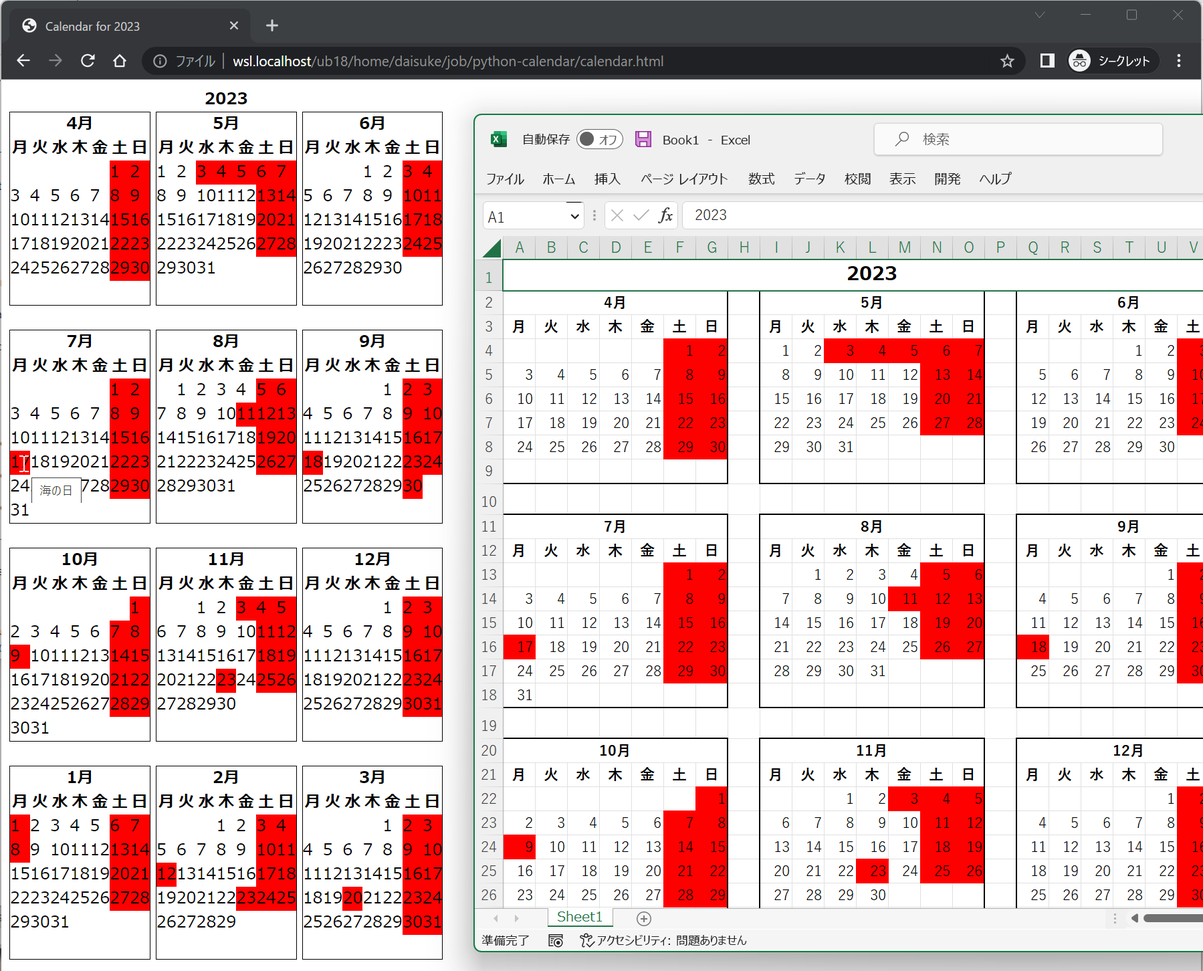
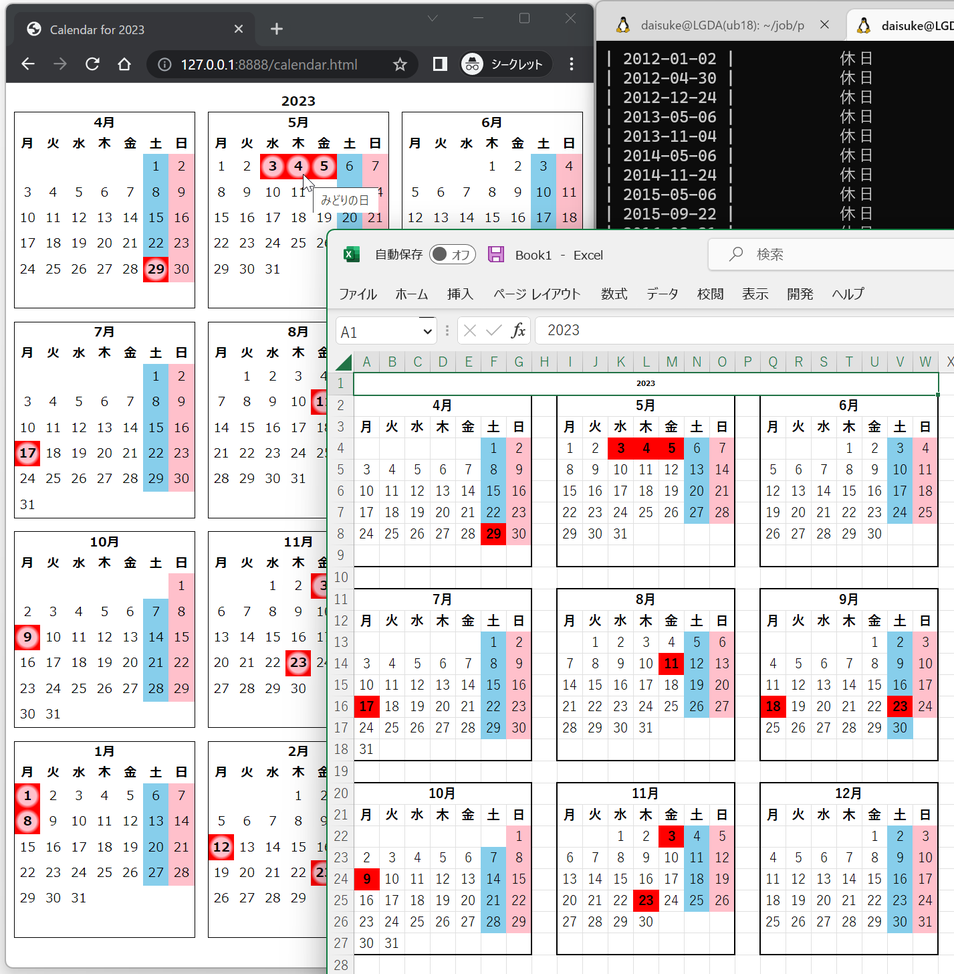
update

diff --git a/calendar.2023.sample.html b/calendar.2023.sample.html
@@ -3,32 +3,40 @@
 <html>
 <head>
 <meta http-equiv="Content-Type" content="text/html; charset=utf-8" />
-<link rel="stylesheet" type="text/css" href="./calendar.css" />
+<link rel="stylesheet" type="text/css" href="calendar-simple.css" />
 <title>Calendar for 2023</title>
 </head>
 <body>
-<table border="0" cellpadding="0" cellspacing="0" class="year">
-<tr><th colspan="5" class="year">2023</th></tr><tr class="months-row"><td class="month"><table border="0" cellpadding="0" cellspacing="0" class="month">
+<table class="year">
+
+<tr><th colspan="5" class="year">2023</th></tr>
+<tr class="months-row">
+
+<td class="month"><table class="month">
 <tr><th colspan="7" class="month">April</th></tr>
 <tr><th class="wd mon">Mon</th><th class="wd tue">Tue</th><th class="wd wed">Wed</th><th class="wd thu">Thu</th><th class="wd fri">Fri</th><th class="wd sat">Sat</th><th class="wd sun">Sun</th></tr>
 <tr class="days"><td class="day noday">&nbsp;</td><td class="day noday">&nbsp;</td><td class="day noday">&nbsp;</td><td class="day noday">&nbsp;</td><td class="day noday">&nbsp;</td><td class="day sat">1</td><td class="day sun">2</td></tr>
 <tr class="days"><td class="day mon">3</td><td class="day tue">4</td><td class="day wed">5</td><td class="day thu">6</td><td class="day fri">7</td><td class="day sat">8</td><td class="day sun">9</td></tr>
 <tr class="days"><td class="day mon">10</td><td class="day tue">11</td><td class="day wed">12</td><td class="day thu">13</td><td class="day fri">14</td><td class="day sat">15</td><td class="day sun">16</td></tr>
 <tr class="days"><td class="day mon">17</td><td class="day tue">18</td><td class="day wed">19</td><td class="day thu">20</td><td class="day fri">21</td><td class="day sat">22</td><td class="day sun">23</td></tr>
-<tr class="days"><td class="day mon">24</td><td class="day tue">25</td><td class="day wed">26</td><td class="day thu">27</td><td class="day fri">28</td><td class="day sat holiday" title="昭和の日">29</td><td class="day sun">30</td></tr>
+<tr class="days"><td class="day mon">24</td><td class="day tue">25</td><td class="day wed">26</td><td class="day thu">27</td><td class="day fri">28</td><td class="day sat holiday" title="昭和の日"><div>29</div></td><td class="day sun">30</td></tr>
 <tr class="days"><td class="day noday">&nbsp;</td><td class="day noday">&nbsp;</td><td class="day noday">&nbsp;</td><td class="day noday">&nbsp;</td><td class="day noday">&nbsp;</td><td class="day noday">&nbsp;</td><td class="day noday">&nbsp;</td></tr>
 </table>
-</td><td><table border="0" cellpadding="0" cellspacing="0" class="pad"><tr><td>&nbsp;</td></tr><tr><td>&nbsp;</td></tr><tr><td>&nbsp;</td></tr><tr><td>&nbsp;</td></tr><tr><td>&nbsp;</td></tr><tr><td>&nbsp;</td></tr><tr><td>&nbsp;</td></tr><tr><td>&nbsp;</td></tr></table></td><td class="month"><table border="0" cellpadding="0" cellspacing="0" class="month">
+</td><td class="hpad"><table><tr><td class="vfill"></td></tr><tr><td class="vfill"></td></tr><tr><td class="vfill"></td></tr><tr><td class="vfill"></td></tr><tr><td class="vfill"></td></tr><tr><td class="vfill"></td></tr><tr><td class="vfill"></td></tr><tr><td class="vfill"></td></tr></table></td>
+
+<td class="month"><table class="month">
 <tr><th colspan="7" class="month">May</th></tr>
 <tr><th class="wd mon">Mon</th><th class="wd tue">Tue</th><th class="wd wed">Wed</th><th class="wd thu">Thu</th><th class="wd fri">Fri</th><th class="wd sat">Sat</th><th class="wd sun">Sun</th></tr>
-<tr class="days"><td class="day mon">1</td><td class="day tue">2</td><td class="day wed holiday" title="憲法記念日">3</td><td class="day thu holiday" title="みどりの日">4</td><td class="day fri holiday" title="こどもの日">5</td><td class="day sat">6</td><td class="day sun">7</td></tr>
+<tr class="days"><td class="day mon">1</td><td class="day tue">2</td><td class="day wed holiday" title="憲法記念日"><div>3</div></td><td class="day thu holiday" title="みどりの日"><div>4</div></td><td class="day fri holiday" title="こどもの日"><div>5</div></td><td class="day sat">6</td><td class="day sun">7</td></tr>
 <tr class="days"><td class="day mon">8</td><td class="day tue">9</td><td class="day wed">10</td><td class="day thu">11</td><td class="day fri">12</td><td class="day sat">13</td><td class="day sun">14</td></tr>
 <tr class="days"><td class="day mon">15</td><td class="day tue">16</td><td class="day wed">17</td><td class="day thu">18</td><td class="day fri">19</td><td class="day sat">20</td><td class="day sun">21</td></tr>
 <tr class="days"><td class="day mon">22</td><td class="day tue">23</td><td class="day wed">24</td><td class="day thu">25</td><td class="day fri">26</td><td class="day sat">27</td><td class="day sun">28</td></tr>
 <tr class="days"><td class="day mon">29</td><td class="day tue">30</td><td class="day wed">31</td><td class="day noday">&nbsp;</td><td class="day noday">&nbsp;</td><td class="day noday">&nbsp;</td><td class="day noday">&nbsp;</td></tr>
 <tr class="days"><td class="day noday">&nbsp;</td><td class="day noday">&nbsp;</td><td class="day noday">&nbsp;</td><td class="day noday">&nbsp;</td><td class="day noday">&nbsp;</td><td class="day noday">&nbsp;</td><td class="day noday">&nbsp;</td></tr>
 </table>
-</td><td><table border="0" cellpadding="0" cellspacing="0" class="pad"><tr><td>&nbsp;</td></tr><tr><td>&nbsp;</td></tr><tr><td>&nbsp;</td></tr><tr><td>&nbsp;</td></tr><tr><td>&nbsp;</td></tr><tr><td>&nbsp;</td></tr><tr><td>&nbsp;</td></tr><tr><td>&nbsp;</td></tr></table></td><td class="month"><table border="0" cellpadding="0" cellspacing="0" class="month">
+</td><td class="hpad"><table><tr><td class="vfill"></td></tr><tr><td class="vfill"></td></tr><tr><td class="vfill"></td></tr><tr><td class="vfill"></td></tr><tr><td class="vfill"></td></tr><tr><td class="vfill"></td></tr><tr><td class="vfill"></td></tr><tr><td class="vfill"></td></tr></table></td>
+
+<td class="month"><table class="month">
 <tr><th colspan="7" class="month">June</th></tr>
 <tr><th class="wd mon">Mon</th><th class="wd tue">Tue</th><th class="wd wed">Wed</th><th class="wd thu">Thu</th><th class="wd fri">Fri</th><th class="wd sat">Sat</th><th class="wd sun">Sun</th></tr>
 <tr class="days"><td class="day noday">&nbsp;</td><td class="day noday">&nbsp;</td><td class="day noday">&nbsp;</td><td class="day thu">1</td><td class="day fri">2</td><td class="day sat">3</td><td class="day sun">4</td></tr>
@@ -39,64 +47,74 @@
 <tr class="days"><td class="day noday">&nbsp;</td><td class="day noday">&nbsp;</td><td class="day noday">&nbsp;</td><td class="day noday">&nbsp;</td><td class="day noday">&nbsp;</td><td class="day noday">&nbsp;</td><td class="day noday">&nbsp;</td></tr>
 </table>
 </td></tr>
+<tr class="vpad"><td><table><tr><td class="hfill"></td><td class="hfill"></td><td class="hfill"></td><td class="hfill"></td><td class="hfill"></td><td class="hfill"></td><td class="hfill"></td></tr></table></td><td class="vpad"><table><tr><td class="vfill hfill"></td></tr></table></td><td><table><tr><td class="hfill"></td><td class="hfill"></td><td class="hfill"></td><td class="hfill"></td><td class="hfill"></td><td class="hfill"></td><td class="hfill"></td></tr></table></td><td class="vpad"><table><tr><td class="vfill hfill"></td></tr></table></td><td><table><tr><td class="hfill"></td><td class="hfill"></td><td class="hfill"></td><td class="hfill"></td><td class="hfill"></td><td class="hfill"></td><td class="hfill"></td></tr></table></td></tr>
 
-<tr><td><table border="0" cellpadding="0" cellspacing="0" class="pad"><td>&nbsp;</td><td>&nbsp;</td><td>&nbsp;</td><td>&nbsp;</td><td>&nbsp;</td><td>&nbsp;</td><td>&nbsp;</td></table></td><td>&nbsp;</td><td><table border="0" cellpadding="0" cellspacing="0" class="pad"><td>&nbsp;</td><td>&nbsp;</td><td>&nbsp;</td><td>&nbsp;</td><td>&nbsp;</td><td>&nbsp;</td><td>&nbsp;</td></table></td><td>&nbsp;</td><td><table border="0" cellpadding="0" cellspacing="0" class="pad"><td>&nbsp;</td><td>&nbsp;</td><td>&nbsp;</td><td>&nbsp;</td><td>&nbsp;</td><td>&nbsp;</td><td>&nbsp;</td></table></td></tr>
+<tr class="months-row">
 
-<tr class="months-row"><td class="month"><table border="0" cellpadding="0" cellspacing="0" class="month">
+<td class="month"><table class="month">
 <tr><th colspan="7" class="month">July</th></tr>
 <tr><th class="wd mon">Mon</th><th class="wd tue">Tue</th><th class="wd wed">Wed</th><th class="wd thu">Thu</th><th class="wd fri">Fri</th><th class="wd sat">Sat</th><th class="wd sun">Sun</th></tr>
 <tr class="days"><td class="day noday">&nbsp;</td><td class="day noday">&nbsp;</td><td class="day noday">&nbsp;</td><td class="day noday">&nbsp;</td><td class="day noday">&nbsp;</td><td class="day sat">1</td><td class="day sun">2</td></tr>
 <tr class="days"><td class="day mon">3</td><td class="day tue">4</td><td class="day wed">5</td><td class="day thu">6</td><td class="day fri">7</td><td class="day sat">8</td><td class="day sun">9</td></tr>
 <tr class="days"><td class="day mon">10</td><td class="day tue">11</td><td class="day wed">12</td><td class="day thu">13</td><td class="day fri">14</td><td class="day sat">15</td><td class="day sun">16</td></tr>
-<tr class="days"><td class="day mon holiday" title="海の日">17</td><td class="day tue">18</td><td class="day wed">19</td><td class="day thu">20</td><td class="day fri">21</td><td class="day sat">22</td><td class="day sun">23</td></tr>
+<tr class="days"><td class="day mon holiday" title="海の日"><div>17</div></td><td class="day tue">18</td><td class="day wed">19</td><td class="day thu">20</td><td class="day fri">21</td><td class="day sat">22</td><td class="day sun">23</td></tr>
 <tr class="days"><td class="day mon">24</td><td class="day tue">25</td><td class="day wed">26</td><td class="day thu">27</td><td class="day fri">28</td><td class="day sat">29</td><td class="day sun">30</td></tr>
 <tr class="days"><td class="day mon">31</td><td class="day noday">&nbsp;</td><td class="day noday">&nbsp;</td><td class="day noday">&nbsp;</td><td class="day noday">&nbsp;</td><td class="day noday">&nbsp;</td><td class="day noday">&nbsp;</td></tr>
 </table>
-</td><td><table border="0" cellpadding="0" cellspacing="0" class="pad"><tr><td>&nbsp;</td></tr><tr><td>&nbsp;</td></tr><tr><td>&nbsp;</td></tr><tr><td>&nbsp;</td></tr><tr><td>&nbsp;</td></tr><tr><td>&nbsp;</td></tr><tr><td>&nbsp;</td></tr><tr><td>&nbsp;</td></tr></table></td><td class="month"><table border="0" cellpadding="0" cellspacing="0" class="month">
+</td><td class="hpad"><table><tr><td class="vfill"></td></tr><tr><td class="vfill"></td></tr><tr><td class="vfill"></td></tr><tr><td class="vfill"></td></tr><tr><td class="vfill"></td></tr><tr><td class="vfill"></td></tr><tr><td class="vfill"></td></tr><tr><td class="vfill"></td></tr></table></td>
+
+<td class="month"><table class="month">
 <tr><th colspan="7" class="month">August</th></tr>
 <tr><th class="wd mon">Mon</th><th class="wd tue">Tue</th><th class="wd wed">Wed</th><th class="wd thu">Thu</th><th class="wd fri">Fri</th><th class="wd sat">Sat</th><th class="wd sun">Sun</th></tr>
 <tr class="days"><td class="day noday">&nbsp;</td><td class="day tue">1</td><td class="day wed">2</td><td class="day thu">3</td><td class="day fri">4</td><td class="day sat">5</td><td class="day sun">6</td></tr>
-<tr class="days"><td class="day mon">7</td><td class="day tue">8</td><td class="day wed">9</td><td class="day thu">10</td><td class="day fri holiday" title="山の日">11</td><td class="day sat">12</td><td class="day sun">13</td></tr>
+<tr class="days"><td class="day mon">7</td><td class="day tue">8</td><td class="day wed">9</td><td class="day thu">10</td><td class="day fri holiday" title="山の日"><div>11</div></td><td class="day sat">12</td><td class="day sun">13</td></tr>
 <tr class="days"><td class="day mon">14</td><td class="day tue">15</td><td class="day wed">16</td><td class="day thu">17</td><td class="day fri">18</td><td class="day sat">19</td><td class="day sun">20</td></tr>
 <tr class="days"><td class="day mon">21</td><td class="day tue">22</td><td class="day wed">23</td><td class="day thu">24</td><td class="day fri">25</td><td class="day sat">26</td><td class="day sun">27</td></tr>
 <tr class="days"><td class="day mon">28</td><td class="day tue">29</td><td class="day wed">30</td><td class="day thu">31</td><td class="day noday">&nbsp;</td><td class="day noday">&nbsp;</td><td class="day noday">&nbsp;</td></tr>
 <tr class="days"><td class="day noday">&nbsp;</td><td class="day noday">&nbsp;</td><td class="day noday">&nbsp;</td><td class="day noday">&nbsp;</td><td class="day noday">&nbsp;</td><td class="day noday">&nbsp;</td><td class="day noday">&nbsp;</td></tr>
 </table>
-</td><td><table border="0" cellpadding="0" cellspacing="0" class="pad"><tr><td>&nbsp;</td></tr><tr><td>&nbsp;</td></tr><tr><td>&nbsp;</td></tr><tr><td>&nbsp;</td></tr><tr><td>&nbsp;</td></tr><tr><td>&nbsp;</td></tr><tr><td>&nbsp;</td></tr><tr><td>&nbsp;</td></tr></table></td><td class="month"><table border="0" cellpadding="0" cellspacing="0" class="month">
+</td><td class="hpad"><table><tr><td class="vfill"></td></tr><tr><td class="vfill"></td></tr><tr><td class="vfill"></td></tr><tr><td class="vfill"></td></tr><tr><td class="vfill"></td></tr><tr><td class="vfill"></td></tr><tr><td class="vfill"></td></tr><tr><td class="vfill"></td></tr></table></td>
+
+<td class="month"><table class="month">
 <tr><th colspan="7" class="month">September</th></tr>
 <tr><th class="wd mon">Mon</th><th class="wd tue">Tue</th><th class="wd wed">Wed</th><th class="wd thu">Thu</th><th class="wd fri">Fri</th><th class="wd sat">Sat</th><th class="wd sun">Sun</th></tr>
 <tr class="days"><td class="day noday">&nbsp;</td><td class="day noday">&nbsp;</td><td class="day noday">&nbsp;</td><td class="day noday">&nbsp;</td><td class="day fri">1</td><td class="day sat">2</td><td class="day sun">3</td></tr>
 <tr class="days"><td class="day mon">4</td><td class="day tue">5</td><td class="day wed">6</td><td class="day thu">7</td><td class="day fri">8</td><td class="day sat">9</td><td class="day sun">10</td></tr>
 <tr class="days"><td class="day mon">11</td><td class="day tue">12</td><td class="day wed">13</td><td class="day thu">14</td><td class="day fri">15</td><td class="day sat">16</td><td class="day sun">17</td></tr>
-<tr class="days"><td class="day mon holiday" title="敬老の日">18</td><td class="day tue">19</td><td class="day wed">20</td><td class="day thu">21</td><td class="day fri">22</td><td class="day sat holiday" title="秋分の日">23</td><td class="day sun">24</td></tr>
+<tr class="days"><td class="day mon holiday" title="敬老の日"><div>18</div></td><td class="day tue">19</td><td class="day wed">20</td><td class="day thu">21</td><td class="day fri">22</td><td class="day sat holiday" title="秋分の日"><div>23</div></td><td class="day sun">24</td></tr>
 <tr class="days"><td class="day mon">25</td><td class="day tue">26</td><td class="day wed">27</td><td class="day thu">28</td><td class="day fri">29</td><td class="day sat">30</td><td class="day noday">&nbsp;</td></tr>
 <tr class="days"><td class="day noday">&nbsp;</td><td class="day noday">&nbsp;</td><td class="day noday">&nbsp;</td><td class="day noday">&nbsp;</td><td class="day noday">&nbsp;</td><td class="day noday">&nbsp;</td><td class="day noday">&nbsp;</td></tr>
 </table>
 </td></tr>
+<tr class="vpad"><td><table><tr><td class="hfill"></td><td class="hfill"></td><td class="hfill"></td><td class="hfill"></td><td class="hfill"></td><td class="hfill"></td><td class="hfill"></td></tr></table></td><td class="vpad"><table><tr><td class="vfill hfill"></td></tr></table></td><td><table><tr><td class="hfill"></td><td class="hfill"></td><td class="hfill"></td><td class="hfill"></td><td class="hfill"></td><td class="hfill"></td><td class="hfill"></td></tr></table></td><td class="vpad"><table><tr><td class="vfill hfill"></td></tr></table></td><td><table><tr><td class="hfill"></td><td class="hfill"></td><td class="hfill"></td><td class="hfill"></td><td class="hfill"></td><td class="hfill"></td><td class="hfill"></td></tr></table></td></tr>
 
-<tr><td><table border="0" cellpadding="0" cellspacing="0" class="pad"><td>&nbsp;</td><td>&nbsp;</td><td>&nbsp;</td><td>&nbsp;</td><td>&nbsp;</td><td>&nbsp;</td><td>&nbsp;</td></table></td><td>&nbsp;</td><td><table border="0" cellpadding="0" cellspacing="0" class="pad"><td>&nbsp;</td><td>&nbsp;</td><td>&nbsp;</td><td>&nbsp;</td><td>&nbsp;</td><td>&nbsp;</td><td>&nbsp;</td></table></td><td>&nbsp;</td><td><table border="0" cellpadding="0" cellspacing="0" class="pad"><td>&nbsp;</td><td>&nbsp;</td><td>&nbsp;</td><td>&nbsp;</td><td>&nbsp;</td><td>&nbsp;</td><td>&nbsp;</td></table></td></tr>
+<tr class="months-row">
 
-<tr class="months-row"><td class="month"><table border="0" cellpadding="0" cellspacing="0" class="month">
+<td class="month"><table class="month">
 <tr><th colspan="7" class="month">October</th></tr>
 <tr><th class="wd mon">Mon</th><th class="wd tue">Tue</th><th class="wd wed">Wed</th><th class="wd thu">Thu</th><th class="wd fri">Fri</th><th class="wd sat">Sat</th><th class="wd sun">Sun</th></tr>
 <tr class="days"><td class="day noday">&nbsp;</td><td class="day noday">&nbsp;</td><td class="day noday">&nbsp;</td><td class="day noday">&nbsp;</td><td class="day noday">&nbsp;</td><td class="day noday">&nbsp;</td><td class="day sun">1</td></tr>
 <tr class="days"><td class="day mon">2</td><td class="day tue">3</td><td class="day wed">4</td><td class="day thu">5</td><td class="day fri">6</td><td class="day sat">7</td><td class="day sun">8</td></tr>
-<tr class="days"><td class="day mon holiday" title="スポーツの日">9</td><td class="day tue">10</td><td class="day wed">11</td><td class="day thu">12</td><td class="day fri">13</td><td class="day sat">14</td><td class="day sun">15</td></tr>
+<tr class="days"><td class="day mon holiday" title="スポーツの日"><div>9</div></td><td class="day tue">10</td><td class="day wed">11</td><td class="day thu">12</td><td class="day fri">13</td><td class="day sat">14</td><td class="day sun">15</td></tr>
 <tr class="days"><td class="day mon">16</td><td class="day tue">17</td><td class="day wed">18</td><td class="day thu">19</td><td class="day fri">20</td><td class="day sat">21</td><td class="day sun">22</td></tr>
 <tr class="days"><td class="day mon">23</td><td class="day tue">24</td><td class="day wed">25</td><td class="day thu">26</td><td class="day fri">27</td><td class="day sat">28</td><td class="day sun">29</td></tr>
 <tr class="days"><td class="day mon">30</td><td class="day tue">31</td><td class="day noday">&nbsp;</td><td class="day noday">&nbsp;</td><td class="day noday">&nbsp;</td><td class="day noday">&nbsp;</td><td class="day noday">&nbsp;</td></tr>
 </table>
-</td><td><table border="0" cellpadding="0" cellspacing="0" class="pad"><tr><td>&nbsp;</td></tr><tr><td>&nbsp;</td></tr><tr><td>&nbsp;</td></tr><tr><td>&nbsp;</td></tr><tr><td>&nbsp;</td></tr><tr><td>&nbsp;</td></tr><tr><td>&nbsp;</td></tr><tr><td>&nbsp;</td></tr></table></td><td class="month"><table border="0" cellpadding="0" cellspacing="0" class="month">
+</td><td class="hpad"><table><tr><td class="vfill"></td></tr><tr><td class="vfill"></td></tr><tr><td class="vfill"></td></tr><tr><td class="vfill"></td></tr><tr><td class="vfill"></td></tr><tr><td class="vfill"></td></tr><tr><td class="vfill"></td></tr><tr><td class="vfill"></td></tr></table></td>
+
+<td class="month"><table class="month">
 <tr><th colspan="7" class="month">November</th></tr>
 <tr><th class="wd mon">Mon</th><th class="wd tue">Tue</th><th class="wd wed">Wed</th><th class="wd thu">Thu</th><th class="wd fri">Fri</th><th class="wd sat">Sat</th><th class="wd sun">Sun</th></tr>
-<tr class="days"><td class="day noday">&nbsp;</td><td class="day noday">&nbsp;</td><td class="day wed">1</td><td class="day thu">2</td><td class="day fri holiday" title="文化の日">3</td><td class="day sat">4</td><td class="day sun">5</td></tr>
+<tr class="days"><td class="day noday">&nbsp;</td><td class="day noday">&nbsp;</td><td class="day wed">1</td><td class="day thu">2</td><td class="day fri holiday" title="文化の日"><div>3</div></td><td class="day sat">4</td><td class="day sun">5</td></tr>
 <tr class="days"><td class="day mon">6</td><td class="day tue">7</td><td class="day wed">8</td><td class="day thu">9</td><td class="day fri">10</td><td class="day sat">11</td><td class="day sun">12</td></tr>
 <tr class="days"><td class="day mon">13</td><td class="day tue">14</td><td class="day wed">15</td><td class="day thu">16</td><td class="day fri">17</td><td class="day sat">18</td><td class="day sun">19</td></tr>
-<tr class="days"><td class="day mon">20</td><td class="day tue">21</td><td class="day wed">22</td><td class="day thu holiday" title="勤労感謝の日">23</td><td class="day fri">24</td><td class="day sat">25</td><td class="day sun">26</td></tr>
+<tr class="days"><td class="day mon">20</td><td class="day tue">21</td><td class="day wed">22</td><td class="day thu holiday" title="勤労感謝の日"><div>23</div></td><td class="day fri">24</td><td class="day sat">25</td><td class="day sun">26</td></tr>
 <tr class="days"><td class="day mon">27</td><td class="day tue">28</td><td class="day wed">29</td><td class="day thu">30</td><td class="day noday">&nbsp;</td><td class="day noday">&nbsp;</td><td class="day noday">&nbsp;</td></tr>
 <tr class="days"><td class="day noday">&nbsp;</td><td class="day noday">&nbsp;</td><td class="day noday">&nbsp;</td><td class="day noday">&nbsp;</td><td class="day noday">&nbsp;</td><td class="day noday">&nbsp;</td><td class="day noday">&nbsp;</td></tr>
 </table>
-</td><td><table border="0" cellpadding="0" cellspacing="0" class="pad"><tr><td>&nbsp;</td></tr><tr><td>&nbsp;</td></tr><tr><td>&nbsp;</td></tr><tr><td>&nbsp;</td></tr><tr><td>&nbsp;</td></tr><tr><td>&nbsp;</td></tr><tr><td>&nbsp;</td></tr><tr><td>&nbsp;</td></tr></table></td><td class="month"><table border="0" cellpadding="0" cellspacing="0" class="month">
+</td><td class="hpad"><table><tr><td class="vfill"></td></tr><tr><td class="vfill"></td></tr><tr><td class="vfill"></td></tr><tr><td class="vfill"></td></tr><tr><td class="vfill"></td></tr><tr><td class="vfill"></td></tr><tr><td class="vfill"></td></tr><tr><td class="vfill"></td></tr></table></td>
+
+<td class="month"><table class="month">
 <tr><th colspan="7" class="month">December</th></tr>
 <tr><th class="wd mon">Mon</th><th class="wd tue">Tue</th><th class="wd wed">Wed</th><th class="wd thu">Thu</th><th class="wd fri">Fri</th><th class="wd sat">Sat</th><th class="wd sun">Sun</th></tr>
 <tr class="days"><td class="day noday">&nbsp;</td><td class="day noday">&nbsp;</td><td class="day noday">&nbsp;</td><td class="day noday">&nbsp;</td><td class="day fri">1</td><td class="day sat">2</td><td class="day sun">3</td></tr>
@@ -107,36 +125,41 @@
 <tr class="days"><td class="day noday">&nbsp;</td><td class="day noday">&nbsp;</td><td class="day noday">&nbsp;</td><td class="day noday">&nbsp;</td><td class="day noday">&nbsp;</td><td class="day noday">&nbsp;</td><td class="day noday">&nbsp;</td></tr>
 </table>
 </td></tr>
+<tr class="vpad"><td><table><tr><td class="hfill"></td><td class="hfill"></td><td class="hfill"></td><td class="hfill"></td><td class="hfill"></td><td class="hfill"></td><td class="hfill"></td></tr></table></td><td class="vpad"><table><tr><td class="vfill hfill"></td></tr></table></td><td><table><tr><td class="hfill"></td><td class="hfill"></td><td class="hfill"></td><td class="hfill"></td><td class="hfill"></td><td class="hfill"></td><td class="hfill"></td></tr></table></td><td class="vpad"><table><tr><td class="vfill hfill"></td></tr></table></td><td><table><tr><td class="hfill"></td><td class="hfill"></td><td class="hfill"></td><td class="hfill"></td><td class="hfill"></td><td class="hfill"></td><td class="hfill"></td></tr></table></td></tr>
 
-<tr><td><table border="0" cellpadding="0" cellspacing="0" class="pad"><td>&nbsp;</td><td>&nbsp;</td><td>&nbsp;</td><td>&nbsp;</td><td>&nbsp;</td><td>&nbsp;</td><td>&nbsp;</td></table></td><td>&nbsp;</td><td><table border="0" cellpadding="0" cellspacing="0" class="pad"><td>&nbsp;</td><td>&nbsp;</td><td>&nbsp;</td><td>&nbsp;</td><td>&nbsp;</td><td>&nbsp;</td><td>&nbsp;</td></table></td><td>&nbsp;</td><td><table border="0" cellpadding="0" cellspacing="0" class="pad"><td>&nbsp;</td><td>&nbsp;</td><td>&nbsp;</td><td>&nbsp;</td><td>&nbsp;</td><td>&nbsp;</td><td>&nbsp;</td></table></td></tr>
+<tr class="months-row">
 
-<tr class="months-row"><td class="month"><table border="0" cellpadding="0" cellspacing="0" class="month">
+<td class="month"><table class="month">
 <tr><th colspan="7" class="month">January</th></tr>
 <tr><th class="wd mon">Mon</th><th class="wd tue">Tue</th><th class="wd wed">Wed</th><th class="wd thu">Thu</th><th class="wd fri">Fri</th><th class="wd sat">Sat</th><th class="wd sun">Sun</th></tr>
-<tr class="days"><td class="day mon holiday" title="元日">1</td><td class="day tue">2</td><td class="day wed">3</td><td class="day thu">4</td><td class="day fri">5</td><td class="day sat">6</td><td class="day sun">7</td></tr>
-<tr class="days"><td class="day mon holiday" title="成人の日">8</td><td class="day tue">9</td><td class="day wed">10</td><td class="day thu">11</td><td class="day fri">12</td><td class="day sat">13</td><td class="day sun">14</td></tr>
+<tr class="days"><td class="day mon holiday" title="元日"><div>1</div></td><td class="day tue">2</td><td class="day wed">3</td><td class="day thu">4</td><td class="day fri">5</td><td class="day sat">6</td><td class="day sun">7</td></tr>
+<tr class="days"><td class="day mon holiday" title="成人の日"><div>8</div></td><td class="day tue">9</td><td class="day wed">10</td><td class="day thu">11</td><td class="day fri">12</td><td class="day sat">13</td><td class="day sun">14</td></tr>
 <tr class="days"><td class="day mon">15</td><td class="day tue">16</td><td class="day wed">17</td><td class="day thu">18</td><td class="day fri">19</td><td class="day sat">20</td><td class="day sun">21</td></tr>
 <tr class="days"><td class="day mon">22</td><td class="day tue">23</td><td class="day wed">24</td><td class="day thu">25</td><td class="day fri">26</td><td class="day sat">27</td><td class="day sun">28</td></tr>
 <tr class="days"><td class="day mon">29</td><td class="day tue">30</td><td class="day wed">31</td><td class="day noday">&nbsp;</td><td class="day noday">&nbsp;</td><td class="day noday">&nbsp;</td><td class="day noday">&nbsp;</td></tr>
 <tr class="days"><td class="day noday">&nbsp;</td><td class="day noday">&nbsp;</td><td class="day noday">&nbsp;</td><td class="day noday">&nbsp;</td><td class="day noday">&nbsp;</td><td class="day noday">&nbsp;</td><td class="day noday">&nbsp;</td></tr>
 </table>
-</td><td><table border="0" cellpadding="0" cellspacing="0" class="pad"><tr><td>&nbsp;</td></tr><tr><td>&nbsp;</td></tr><tr><td>&nbsp;</td></tr><tr><td>&nbsp;</td></tr><tr><td>&nbsp;</td></tr><tr><td>&nbsp;</td></tr><tr><td>&nbsp;</td></tr><tr><td>&nbsp;</td></tr></table></td><td class="month"><table border="0" cellpadding="0" cellspacing="0" class="month">
+</td><td class="hpad"><table><tr><td class="vfill"></td></tr><tr><td class="vfill"></td></tr><tr><td class="vfill"></td></tr><tr><td class="vfill"></td></tr><tr><td class="vfill"></td></tr><tr><td class="vfill"></td></tr><tr><td class="vfill"></td></tr><tr><td class="vfill"></td></tr></table></td>
+
+<td class="month"><table class="month">
 <tr><th colspan="7" class="month">February</th></tr>
 <tr><th class="wd mon">Mon</th><th class="wd tue">Tue</th><th class="wd wed">Wed</th><th class="wd thu">Thu</th><th class="wd fri">Fri</th><th class="wd sat">Sat</th><th class="wd sun">Sun</th></tr>
 <tr class="days"><td class="day noday">&nbsp;</td><td class="day noday">&nbsp;</td><td class="day noday">&nbsp;</td><td class="day thu">1</td><td class="day fri">2</td><td class="day sat">3</td><td class="day sun">4</td></tr>
-<tr class="days"><td class="day mon">5</td><td class="day tue">6</td><td class="day wed">7</td><td class="day thu">8</td><td class="day fri">9</td><td class="day sat">10</td><td class="day sun holiday" title="建国記念の日">11</td></tr>
-<tr class="days"><td class="day mon holiday" title="振替休日">12</td><td class="day tue">13</td><td class="day wed">14</td><td class="day thu">15</td><td class="day fri">16</td><td class="day sat">17</td><td class="day sun">18</td></tr>
-<tr class="days"><td class="day mon">19</td><td class="day tue">20</td><td class="day wed">21</td><td class="day thu">22</td><td class="day fri holiday" title="天皇誕生日">23</td><td class="day sat">24</td><td class="day sun">25</td></tr>
+<tr class="days"><td class="day mon">5</td><td class="day tue">6</td><td class="day wed">7</td><td class="day thu">8</td><td class="day fri">9</td><td class="day sat">10</td><td class="day sun holiday" title="建国記念の日"><div>11</div></td></tr>
+<tr class="days"><td class="day mon holiday" title="振替休日"><div>12</div></td><td class="day tue">13</td><td class="day wed">14</td><td class="day thu">15</td><td class="day fri">16</td><td class="day sat">17</td><td class="day sun">18</td></tr>
+<tr class="days"><td class="day mon">19</td><td class="day tue">20</td><td class="day wed">21</td><td class="day thu">22</td><td class="day fri holiday" title="天皇誕生日"><div>23</div></td><td class="day sat">24</td><td class="day sun">25</td></tr>
 <tr class="days"><td class="day mon">26</td><td class="day tue">27</td><td class="day wed">28</td><td class="day thu">29</td><td class="day noday">&nbsp;</td><td class="day noday">&nbsp;</td><td class="day noday">&nbsp;</td></tr>
 <tr class="days"><td class="day noday">&nbsp;</td><td class="day noday">&nbsp;</td><td class="day noday">&nbsp;</td><td class="day noday">&nbsp;</td><td class="day noday">&nbsp;</td><td class="day noday">&nbsp;</td><td class="day noday">&nbsp;</td></tr>
 </table>
-</td><td><table border="0" cellpadding="0" cellspacing="0" class="pad"><tr><td>&nbsp;</td></tr><tr><td>&nbsp;</td></tr><tr><td>&nbsp;</td></tr><tr><td>&nbsp;</td></tr><tr><td>&nbsp;</td></tr><tr><td>&nbsp;</td></tr><tr><td>&nbsp;</td></tr><tr><td>&nbsp;</td></tr></table></td><td class="month"><table border="0" cellpadding="0" cellspacing="0" class="month">
+</td><td class="hpad"><table><tr><td class="vfill"></td></tr><tr><td class="vfill"></td></tr><tr><td class="vfill"></td></tr><tr><td class="vfill"></td></tr><tr><td class="vfill"></td></tr><tr><td class="vfill"></td></tr><tr><td class="vfill"></td></tr><tr><td class="vfill"></td></tr></table></td>
+
+<td class="month"><table class="month">
 <tr><th colspan="7" class="month">March</th></tr>
 <tr><th class="wd mon">Mon</th><th class="wd tue">Tue</th><th class="wd wed">Wed</th><th class="wd thu">Thu</th><th class="wd fri">Fri</th><th class="wd sat">Sat</th><th class="wd sun">Sun</th></tr>
 <tr class="days"><td class="day noday">&nbsp;</td><td class="day noday">&nbsp;</td><td class="day noday">&nbsp;</td><td class="day noday">&nbsp;</td><td class="day fri">1</td><td class="day sat">2</td><td class="day sun">3</td></tr>
 <tr class="days"><td class="day mon">4</td><td class="day tue">5</td><td class="day wed">6</td><td class="day thu">7</td><td class="day fri">8</td><td class="day sat">9</td><td class="day sun">10</td></tr>
 <tr class="days"><td class="day mon">11</td><td class="day tue">12</td><td class="day wed">13</td><td class="day thu">14</td><td class="day fri">15</td><td class="day sat">16</td><td class="day sun">17</td></tr>
-<tr class="days"><td class="day mon">18</td><td class="day tue">19</td><td class="day wed holiday" title="春分の日">20</td><td class="day thu">21</td><td class="day fri">22</td><td class="day sat">23</td><td class="day sun">24</td></tr>
+<tr class="days"><td class="day mon">18</td><td class="day tue">19</td><td class="day wed holiday" title="春分の日"><div>20</div></td><td class="day thu">21</td><td class="day fri">22</td><td class="day sat">23</td><td class="day sun">24</td></tr>
 <tr class="days"><td class="day mon">25</td><td class="day tue">26</td><td class="day wed">27</td><td class="day thu">28</td><td class="day fri">29</td><td class="day sat">30</td><td class="day sun">31</td></tr>
 <tr class="days"><td class="day noday">&nbsp;</td><td class="day noday">&nbsp;</td><td class="day noday">&nbsp;</td><td class="day noday">&nbsp;</td><td class="day noday">&nbsp;</td><td class="day noday">&nbsp;</td><td class="day noday">&nbsp;</td></tr>
 </table>

diff --git a/calendar.css b/calendar.css
@@ -1,19 +1,50 @@
-.holiday {
-    background: red;
+/* Fancy calendar style sheet */
+body {
+    font-size: 0.8rem;
+}
+table {
+    border-collapse:collapse;
+    border:0px;
+}
+table, tr, td {
+    margin: 0px;
+    padding: 0px;
+}
+.day {
+    min-width: 2em;
+    max-width: 2em;
+    height: 2em;
+    text-align: center;
 }
 .day.sun {
-    background: red;
+    background: pink; /*日曜日*/
 }
 .day.sat {
-    background: red;
+    background: skyblue; /*土曜日*/
+}
+td.day.holiday {
+    background: red; /*祝日*/
+}
+td.day.holiday > div { /*祝日の赤丸*/
+    display: flex;
+    justify-content: center;
+    align-items: center;
+    height: 100%;
+    width: 100%;
+    font-weight: 700;
+    background: radial-gradient(ellipse at center, pink 0%, pink 50%, transparent 70%);
 }
 table.month {
-    border: 1px solid !important;
-    border-collapse: collapse;
+    border: 1px solid;
 }
-/*
 td.month {
     vertical-align: top;
 }
-*/
-
+.hfill {
+    min-width: 0em;
+    height: 1em; /*上下の隙間*/
+}
+.vfill {
+    min-width: 1em; /*左右の隙間*/
+    height: 0em;
+}

diff --git a/calendar-simple.css b/calendar-simple.css
@@ -1,0 +1,14 @@
+/* Simple calendar style sheet */
+.holiday {
+    background: red;
+}
+.day.sun {
+    background: pink;
+}
+.day.sat {
+    background: skyblue;
+}
+table.month {
+    border: 1px solid;
+    border-collapse: collapse;
+}

diff --git a/src/python_calendar/calendar.py b/src/python_calendar/calendar.py
@@ -6,7 +6,7 @@ import html
 
 import click
 
-from .holidays import Syukujitsu, Holidays
+from .holidays import Holidays
 
 
 class MyHTMLCalendar(calendar.HTMLCalendar):
@@ -39,7 +39,7 @@ class MyHTMLCalendar(calendar.HTMLCalendar):
             if holiday_name:
                 css += ' holiday'
                 name = html.escape(holiday_name, quote=True)
-                return '<td class="%s" title="%s">%d</td>' % (css, name, day)
+                return '<td class="%s" title="%s"><div>%d</div></td>' % (css, name, day)
             else:
                 return '<td class="%s">%d</td>' % (css, day)
 
@@ -56,7 +56,7 @@ class MyHTMLCalendar(calendar.HTMLCalendar):
         """
         v = []
         a = v.append
-        a('<table border="0" cellpadding="0" cellspacing="0" class="%s">' % (
+        a('<table class="%s">' % (
             self.cssclass_month))
         a('\n')
         a(self.formatmonthname(theyear, themonth, withyear=withyear))
@@ -64,7 +64,7 @@ class MyHTMLCalendar(calendar.HTMLCalendar):
         a(self.formatweekheader())
         a('\n')
 
-        # １月の行数を６週分固定にする
+        # １月の行数を６週分固定にして列数を統一する
         arr = self.monthdays2calendar(theyear, themonth)
         arr = arr + [[(0,0)] * 7] * (6 - len(arr))
 
@@ -83,49 +83,54 @@ class MyHTMLCalendar(calendar.HTMLCalendar):
         v = []
         a = v.append
         width = max(width, 1)
-        a('<table border="0" cellpadding="0" cellspacing="0" class="%s">' %
+        a('<table class="%s">' %
           self.cssclass_year)
-        a('\n')
+        a('\n\n')
         a('<tr><th colspan="%d" class="%s">%s</th></tr>' % (
             width + width - 1, self.cssclass_year_head, theyear))
         for i in range(self.startmonth, self.startmonth+12, width):
             # months in this row
+            a('\n')
             months = [((x - 1) % 12) + 1 for x in range(i, i+width)]
             a('<tr class="months-row">')
             for m in months:
                 y = theyear + 1 if m < self.startmonth else theyear
+                # save current year and date for test holiday
                 self.cur_year = y
                 self.cur_month = m
+                a('\n\n')
                 a('<td class="month">')
                 a(self.formatmonth(y, m, withyear=False))
                 a('</td>')
                 # 月の左右の空白
                 # NOTE: 単に <td></td> とすると excel に貼り付けたときに結合セルになってしまうので同じ個数の空セルで埋める。
-                a('<td><table border="0" cellpadding="0" cellspacing="0" class="pad">' + ('<tr><td>&nbsp;</td></tr>' * (2+6)) + '</table></td>')
+                a('<td class="hpad"><table>' + ('<tr><td class="vfill"></td></tr>' * (2+6)) + '</table></td>')
             v.pop()
             a('</tr>')
 
             # 月の列の上下の空白
-            pad = ['<td><table border="0" cellpadding="0" cellspacing="0" class="pad">' + ('<td>&nbsp;</td>' * 7) + '</table></td>', '<td>&nbsp;</td>'] * width
+            pad = ['<td><table><tr>' + ('<td class="hfill"></td>' * 7) + '</tr></table></td>', '<td class="vpad"><table><tr><td class="vfill hfill"></td></tr></table></td>'] * width
             pad.pop()
-            a('\n\n<tr>' + ''.join(pad) + '</tr>\n\n')
+            a('\n<tr class="vpad">' + ''.join(pad) + '</tr>\n')
 
         v.pop()
         a('</table>')
         return ''.join(v)
 
 
-@click.command()
+@click.command(context_settings={'show_default': True})
 @click.option('--year', default=datetime.date.today().year, help='target year')
-@click.option('--filename', default='calendar.html', help='output HTML filename')
-@click.option('--css', default='./calendar.css', help='css filename (link filename or URL)')
-def main(year, filename, css):
+@click.option('--output', default='calendar.html', help='output HTML filename')
+@click.option('--css', default='./calendar.css', help='css location or URL')
+@click.option('--encoding', default='utf-8', help='character encoding for output')
+def main(year, output, css, encoding):
     lc_time = os.getenv('LC_ALL') or os.getenv('LC_TIME') or os.getenv('LANG')
     locale.setlocale(locale.LC_TIME, lc_time)
+
     cal = MyHTMLCalendar(firstweekday=0, startmonth=4)
-    year = 2023
-    with open(filename, 'wb') as fh:
-        fh.write(cal.formatyearpage(year, css=css))
+
+    with open(output, 'wb') as fh:
+        fh.write(cal.formatyearpage(year, css=css, encoding=encoding))
 
 
 if __name__ == '__main__':

diff --git a/README.md b/README.md
@@ -7,14 +7,12 @@ excel に貼り付ける事ができます。
 
 ![screenshot](https://github.com/fb8works/python-calendar/blob/main/screenshot.png?raw=true)
 
-## カレンダーの生成
+## Generate html calendar
 
 ```bash
 $ git clone https://github.com/fb8works/python-calendar.git
 $ cd python-calendar
-$ poetry install
-$ LC_TIME=ja_JP.UTF-8 poetry run python -m python_calendar.calendar --year 2023
-$ wslstart calendar.html
+$ make calendar
 ```
 
 ## NOTE

diff --git a/devel/DEVEL.md b/devel/DEVEL.md
@@ -1,0 +1,9 @@
+## Setup
+
+```bash
+$ sudo apt-get install tk-dev
+$ cp devel/.tools-version .
+$ asdf install
+$ cp devel/.envrc .
+$ direnv allow
+```
